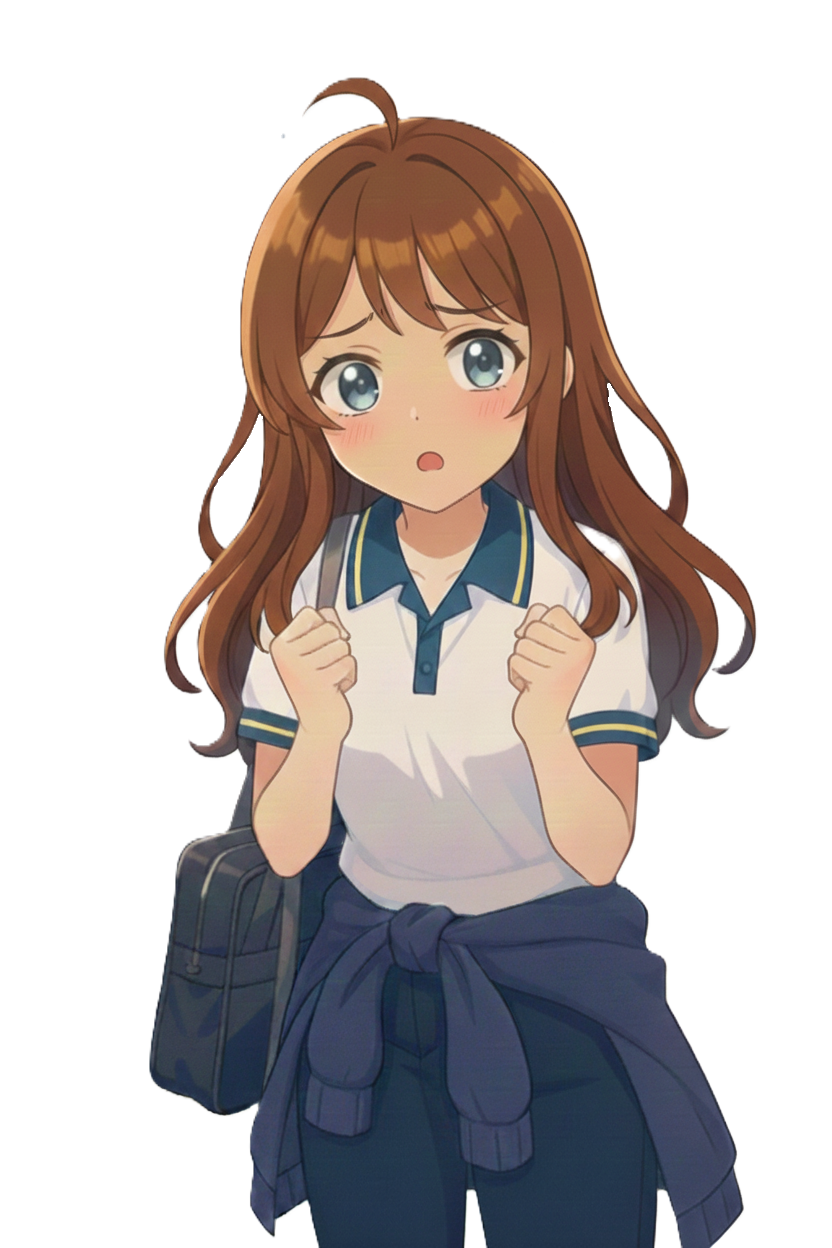
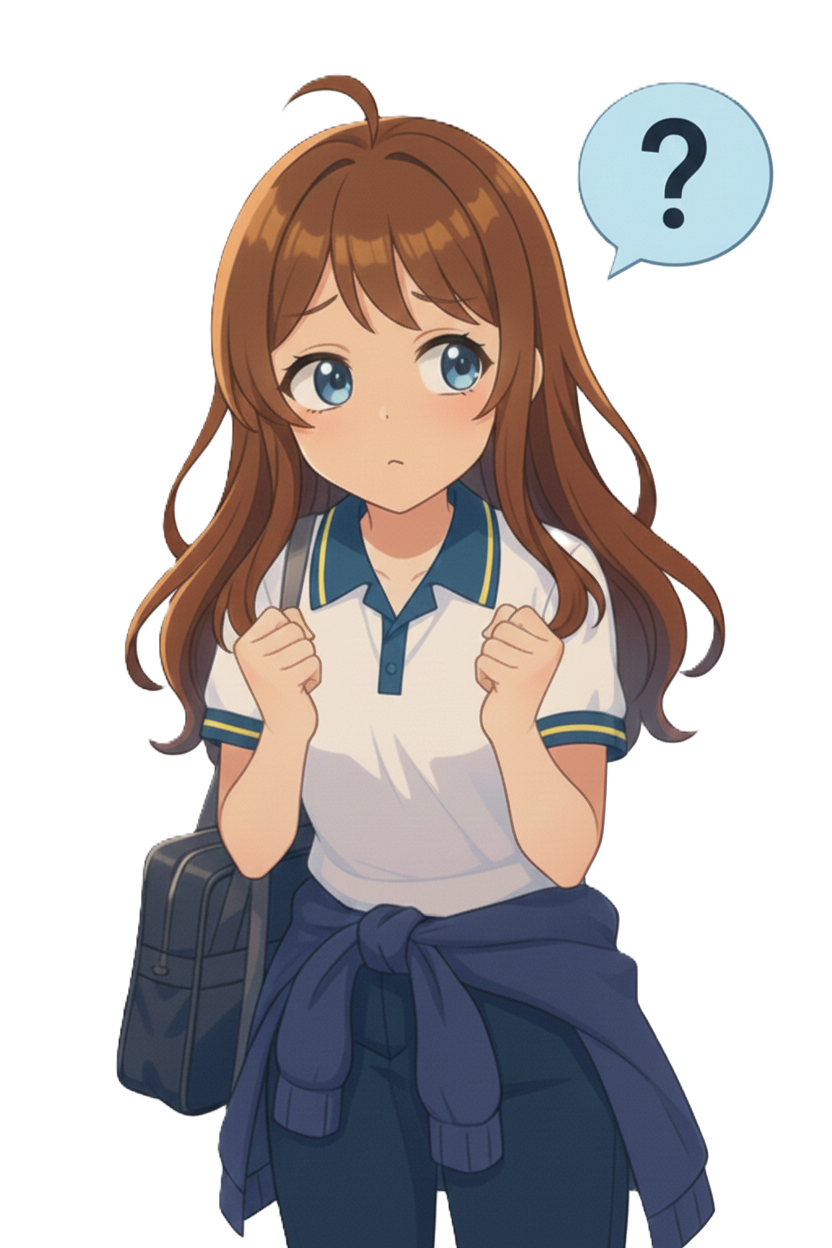
Changes

Changed region(s): [[0.125, 0.0625, 0.9375, 1.0]]

diff --git a/src/components/Battle/BattleScreen.tsx b/src/components/Battle/BattleScreen.tsx
@@ -7,6 +7,7 @@ import BossHealthBar from './BossHealthBar';
 import SoundButton from '@/components/Environment/SoundButton';
 import EnvironmentMenu from '@/components/Environment/EnvironmentMenu';
 import ProfileAvatar from '@/components/Environment/ProfileAvatar';
+import ProfileAvatar from '@/components/Environment/ProfileAvatar';
 import TrueFalseCard from './TrueFalseCard';
 import VictoryScreen from './VictoryScreen';
 import DefeatScreen from './DefeatScreen';
@@ -27,6 +28,14 @@ import claraAnimadaImage from '@/assets/characters/clara-animada.png';
 import claraCelebrandoImage from '@/assets/characters/clara-celebrando.png';
 import claraGritoImage from '@/assets/characters/clara-grito.png';
 import claraMatematicaImage from '@/assets/characters/clara-matematica.png';
+import claraMatematicaConfianteImage from '@/assets/characters/clara-matematica-confiante.png';
+import claraMatematicaTristeImage from '@/assets/characters/clara-matematica-triste.png';
+import claraFelizCiencia2Image from '@/assets/characters/clara-feliz-ciencia-2.png';
+import claraSorrindoImage from '@/assets/characters/clara-sorrindo.png';
+import claraOuvindoImage from '@/assets/characters/clara-ouvindo.png';
+import claraChorandoImage from '@/assets/characters/clara-chorando.png';
+import claraLabAssustadaImage from '@/assets/characters/clara-lab-assustada.png';
+import claraDuvidaDialogoImage from '@/assets/characters/clara-duvida-dialogo.png';
 
 // Import Boss sprites - Laboratório (Ambiente 1)
 import profCienciasDestemidaImage from '@/assets/characters/prof-ciencias-destemida.png';
@@ -216,6 +225,7 @@ const BattleScreen = ({ environmentId, onBackToPatio, onProfile, onVictory }: Ba
   const [score, setScore] = useState(0);
   const [totalDamageDealt, setTotalDamageDealt] = useState(0);
   const [feedback, setFeedback] = useState<FeedbackType>(null);
+  const [lastFeedback, setLastFeedback] = useState<FeedbackType>(null);
   const [pendingResult, setPendingResult] = useState<{ isCorrect: boolean; newPlayerHealth: number; newBossHealth: number; damageDealt: number } | null>(null);
   const [bossTransformed, setBossTransformed] = useState(false);
   const { settings, toggleMute } = useSoundSystem();
@@ -238,11 +248,36 @@ const BattleScreen = ({ environmentId, onBackToPatio, onProfile, onVictory }: Ba
   };
 
   const getClaraSprite = () => {
+    // Ambiente 4 (Sala de Matemática) - Clara com Compasso e Lápis
+    if (environmentId === 4) {
+      if (phase === 'defeat') return claraChorandoImage;
+      if (phase === 'victory') return claraCelebrandoImage;
+      if (phase === 'intro-1') return claraOuvindoImage; // Ouvindo a professora
+      if (phase === 'intro-2') return claraMatematicaImage; // Segurando materiais
+      if (phase === 'intro-3') return claraMatematicaConfianteImage; // Confiante com materiais
+      if (phase === 'battle-start') return claraMatematicaConfianteImage;
+      if (phase === 'question' || phase === 'feedback') {
+        if (lastFeedback === 'wrong') return claraMatematicaTristeImage; // Errou questão
+        return claraMatematicaConfianteImage;
+      }
+      return claraMatematicaImage;
+    }
+
+    // Ambiente 1 (Laboratório)
+    if (environmentId === 1) {
+      if (phase === 'victory') return claraFelizCiencia2Image;
+      if (phase === 'intro-1') return claraLabAssustadaImage;
+    }
+
+    // Padrão para outros ambientes
     if (phase === 'defeat') return claraGritoImage;
     if (phase === 'victory') return claraCelebrandoImage;
     if (phase === 'battle-start') return claraAnimadaImage;
-    if (phase === 'question' || phase === 'feedback') return claraAnimadaImage;
-    if (phase === 'intro-2') return claraAnimadaImage; // Clara determinada
+    if (phase === 'question' || phase === 'feedback') {
+        if (lastFeedback === 'wrong') return claraDuvidaDialogoImage; // Errou questão
+        return claraAnimadaImage;
+    }
+    if (phase === 'intro-2') return claraSorrindoImage; // Clara determinada/feliz
     if (phase === 'intro-3') return claraAnimadaImage; // Clara enfrentando boss transformado
     return claraDuvidaImage; // intro-1: Clara surpresa
   };
